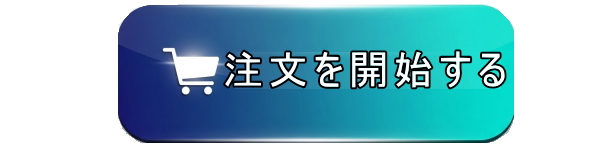
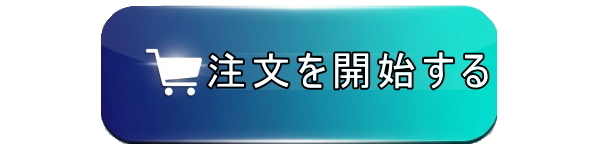
Add files via upload

Changed region(s): [[0.15, 0.0267, 0.87, 0.96]]

diff --git a/index.html b/index.html
@@ -97,7 +97,7 @@ body {
 <img src="botan.jpg" width="600" height="150" border="0" usemap="#botan"><br>
 <img src="tyuumonnkaisi.jpg" </a width="600" height="201"></div>
 <map name="botan" id="botan">
-  <area href="https://script.google.com/macros/s/AKfycbxiu-LFml7YEgb4EZGObyFp8Ou37Pv2HXllMwTJcwGcEyCheCo7o9B8E30HArWMarZDbA/exec" shape="rect" coords="117,6 517,144">
+  <area href="https://script.google.com/macros/s/AKfycbxiu-LFml7YEgb4EZGObyFp8Ou37Pv2HXllMwTJcwGcEyCheCo7o9B8E30HArWMarZDbA/exec" shape="rect" coords="101,7 499,145">
   <area shape="default" nohref>
 </map><map name="irassyaimase" id="irassyaimase">
   <area href="https://script.google.com/macros/s/AKfycbwSVi9neaNoW3U3eTuPMeO8upCFZdwKnU2S6lXEoxFqzqKj1U5DnNB30r2Ls-iPMmGu3Q/exec" shape="rect" coords="185,104 564,160">
